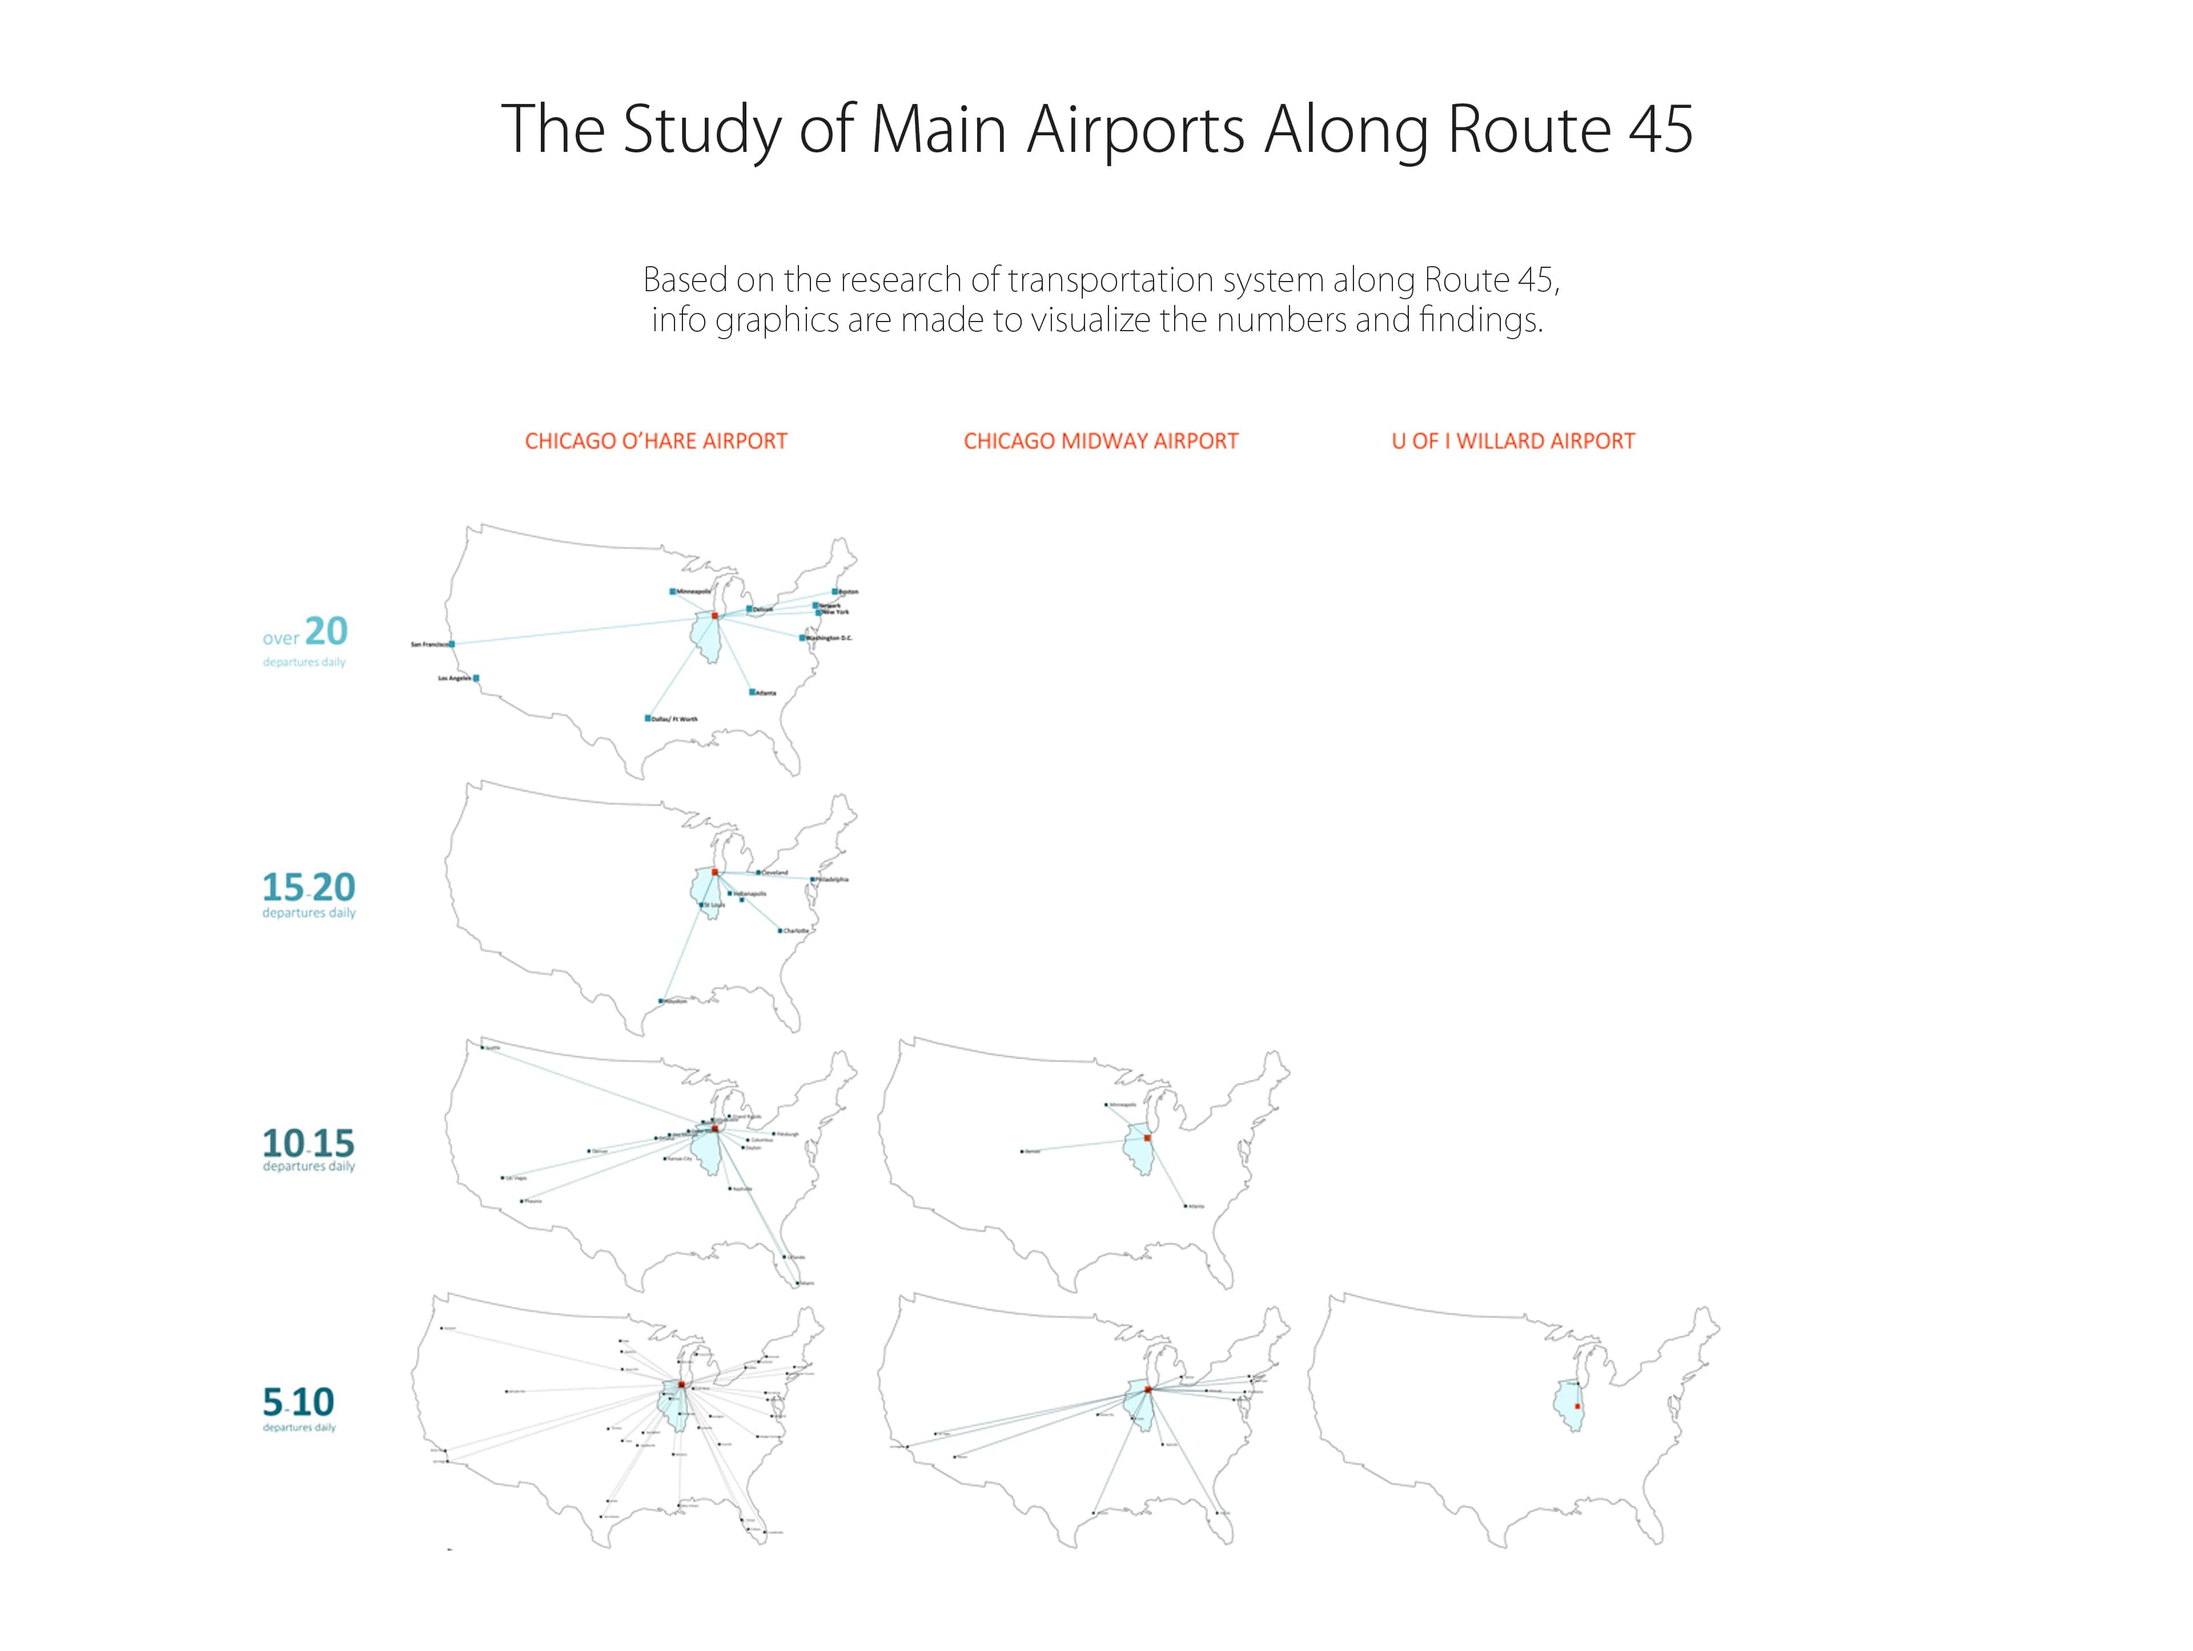
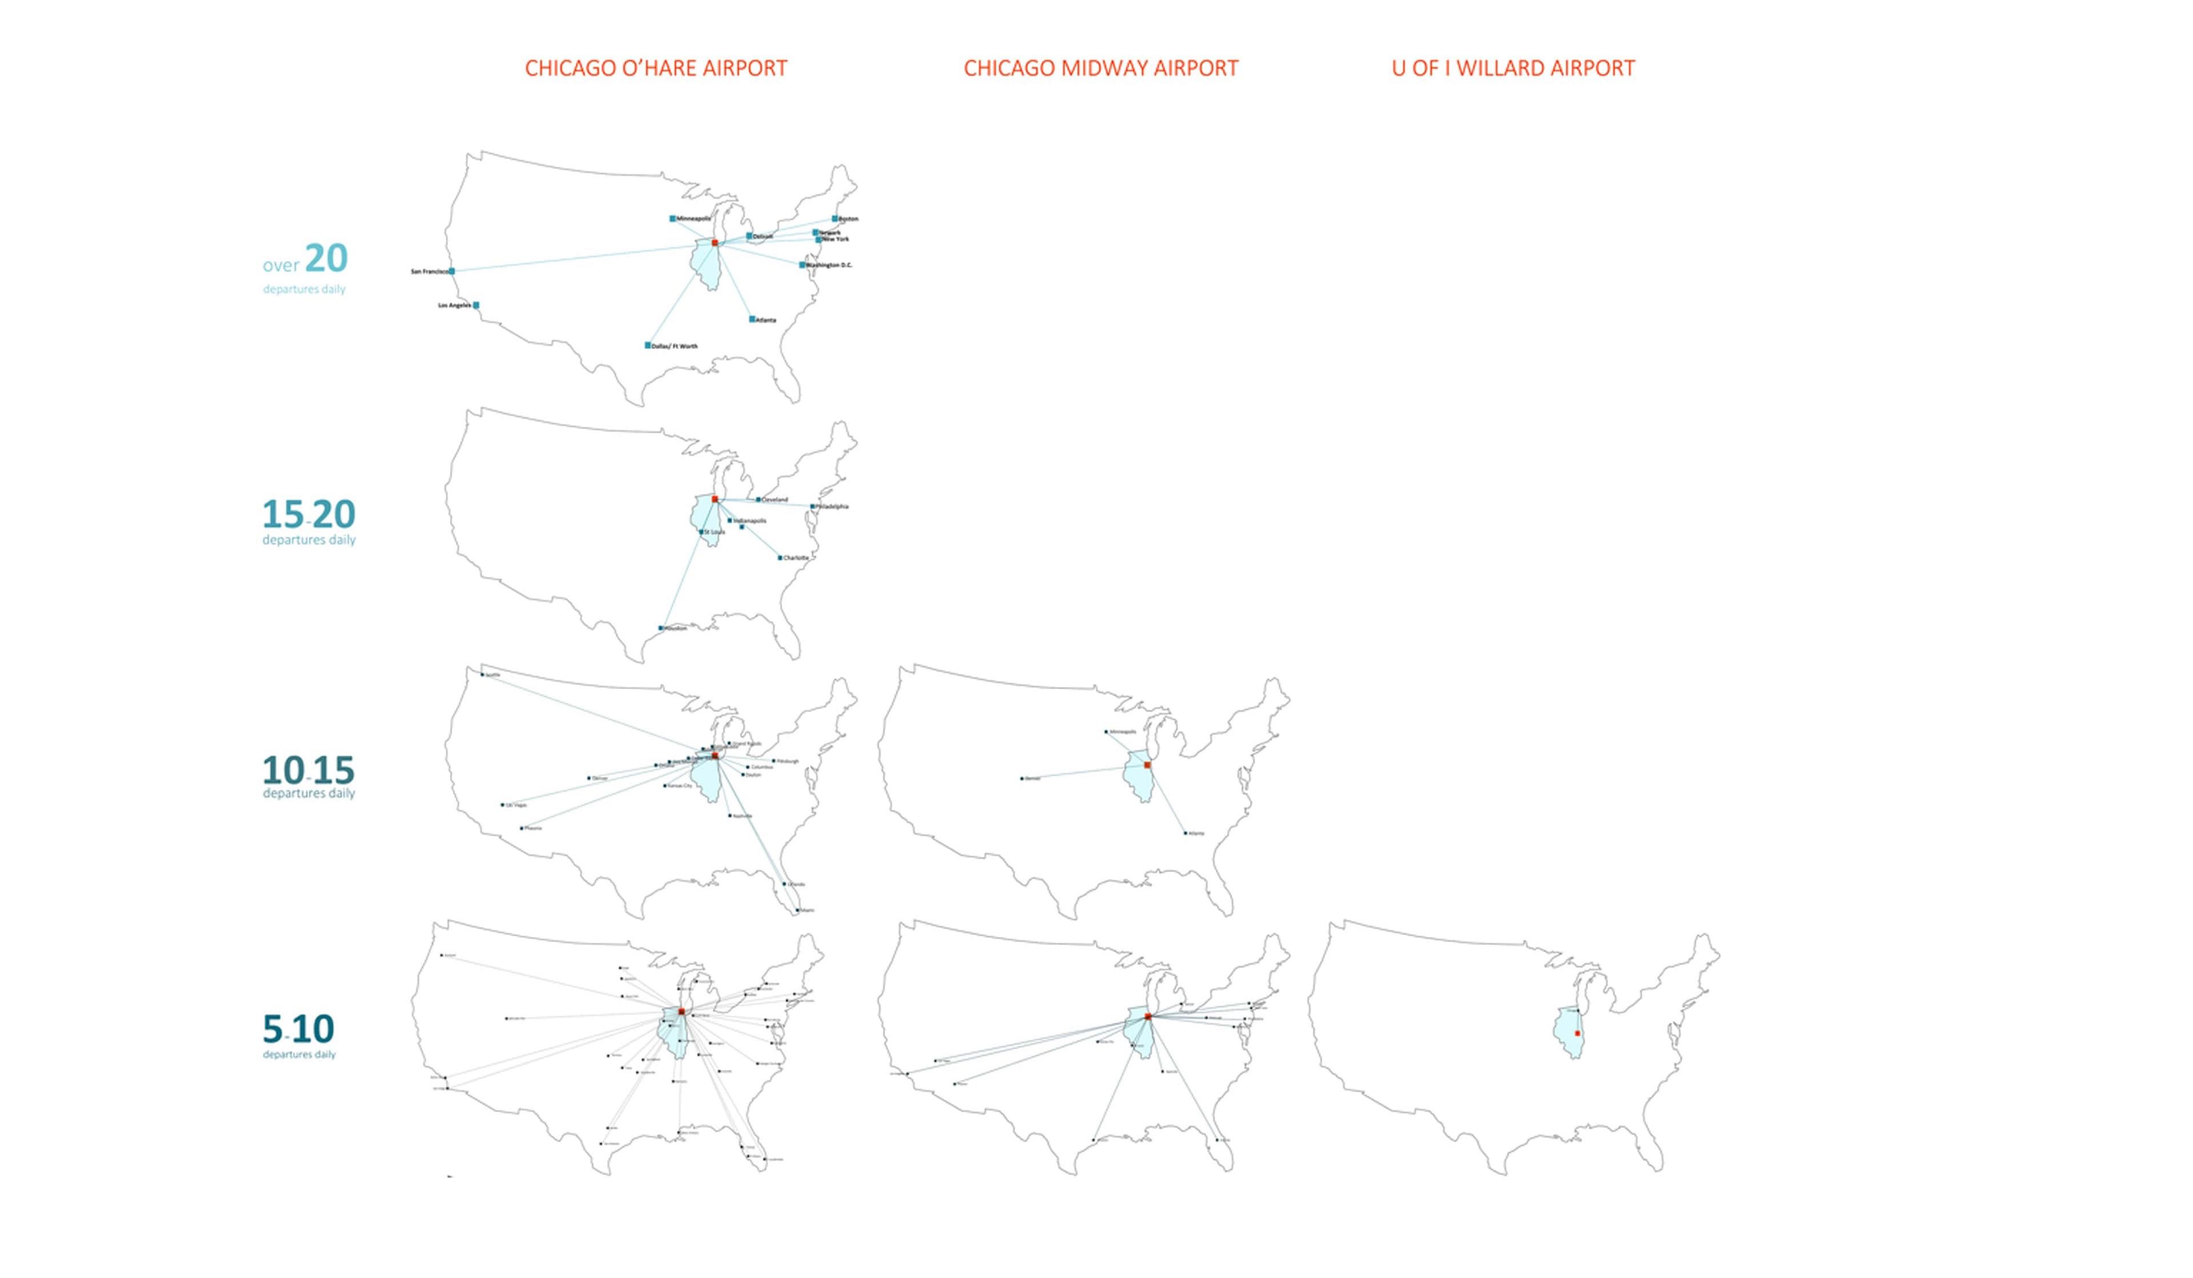
Added text for infographics

diff --git a/infographics.html b/infographics.html
@@ -76,14 +76,60 @@
         <!-- .......... Go Down Arrow .......... -->
         <a href="#resume" class="go-down-arrow bounce" data-uk-smooth-scroll="{offset: 90}"></a>
         
-        
+        <!-- .......... Infographics intro .......... -->
+        <div style="color:#555" id="resume">
+            <br>
+            <br>
+            <br>
+            <h1 class="uk-text-large uk-text-center font-el" style="font-size:400%;color:#555">Infographics</h1>
+            <br>
+            <br>
+            <div class="uk-grid"> 
+                <div class="uk-width-1-2 uk-container-center">
+                    <p class="uk-text-center uk-text-large font-el" style="font-size:120%">
+                        Changchang believes that infographics is an efficient way for communication and decision making.
+                        <br>
+                        <br>
+                        She has used infographics to study the relationship between designers and clients, aided the text in one of her resumes, analyzed 3 different airports along Route 45 in IL…
+                        <br>
+                        <br>
+                        The research can be shown by doing infographics, and in turn infographics can help people to decide what aspect needs more research.
+                    </p>
+                </div>
+            </div>
+            <br>
+            <br>
+        </div>
+            
         <!-- .......... 1 .......... -->
-        <div class="uk-slidenav-position" data-uk-slideshow id="resume">
+        <div class="uk-slidenav-position" data-uk-slideshow>
             <ul class="uk-slideshow uk-slider-full-screen uk-grid-width-medium-1-1 uk-grid-width-large-1-1">
                 <li class="uk-active uk-vertical-align uk-text-center">
                     <img src="image/2_INTRO.jpg" class="uk-vertical-align-center">
                 </li>
             </ul>
+        </div>
+            
+        <!-- .......... Airport intro .......... -->
+        <div style="color:#555" id="resume">
+            <br>
+            <br>
+            <br>
+            <h1 class="uk-text-large uk-text-center font-el" style="font-size:400%;color:#555">The Study of Main Airports</h1>
+            <br>
+            <br>
+            <h1 class="uk-text-large uk-text-center font-el" style="font-size:400%;color:#555">Along Route 45</h1>
+            <br>
+            <br>
+            <div class="uk-grid"> 
+                <div class="uk-width-1-2 uk-container-center">
+                    <p class="uk-text-center uk-text-large font-el" style="font-size:120%">
+                        Based on the research of transportation system along Route 45, info graphics are made to visualize the numbers and findings.
+                    </p>
+                </div>
+            </div>
+            <br>
+            <br>
         </div>
         
         <!-- .......... 2 .......... -->

diff --git a/product_design.html b/product_design.html
@@ -81,13 +81,11 @@
             <br>
             <br>
             <br>
-            <h1 class="uk-text-large uk-text-center font-el" style="font-size:400%;color:#555">Zhuyeqing Tea - Package Renovation</h1>
-<!--
+            <h1 class="uk-text-large uk-text-center font-el" style="font-size:400%;color:#555">Package Renovation</h1>
             <br>
             <br>
-            <h1 class="uk-text-large uk-text-center font-el" style="font-size:200%;color:#555">Package Renovation</h1>
+            <h1 class="uk-text-large uk-text-center font-el" style="font-size:300%;color:#555">Zhuyeqing Tea</h1>
             <br>
--->
             <br>
             <br>
             <div class="uk-grid"> 
@@ -205,7 +203,7 @@
             <br>
             <br>
             <br>
-            <h1 class="uk-text-large uk-text-center font-el" style="font-size:400%;color:#555">Wedding Candy Jie & Chang</h1>
+            <h1 class="uk-text-large uk-text-center font-el" style="font-size:300%;color:#555">Wedding Candy Jie & Chang</h1>
             <br>
             <br>
             <div class="uk-grid"> 
@@ -285,7 +283,7 @@
             <br>
             <br>
             <br>
-            <h1 class="uk-text-large uk-text-center font-el" style="font-size:400%;color:#555">CAPITAMALLS| TIANFU PLAZA</h1>
+            <h1 class="uk-text-large uk-text-center font-el" style="font-size:300%;color:#555">CAPITAMALLS| TIANFU PLAZA</h1>
             <br>
             <br>
             <div class="uk-grid"> 
